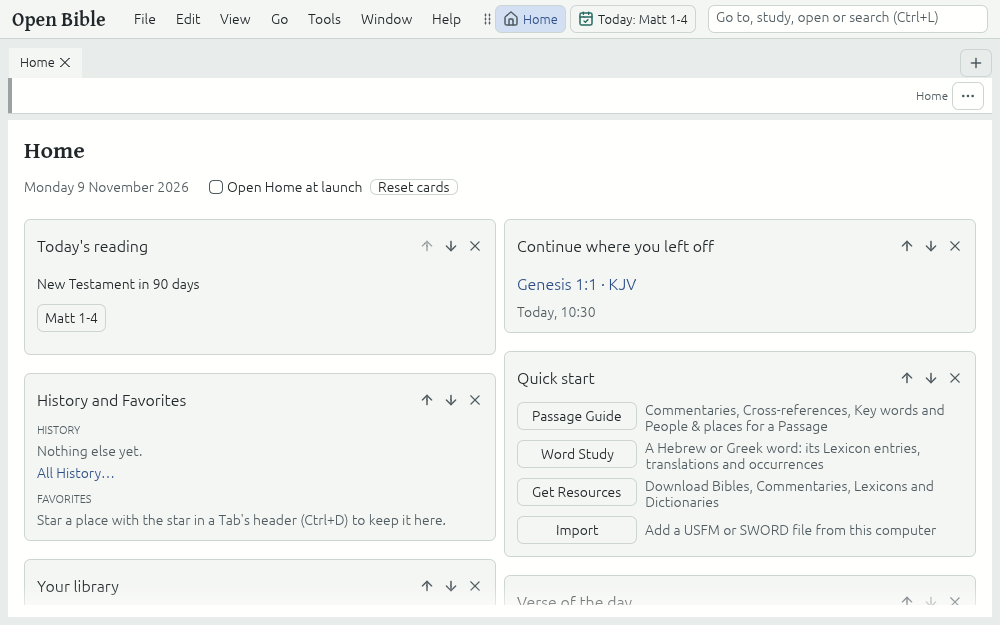
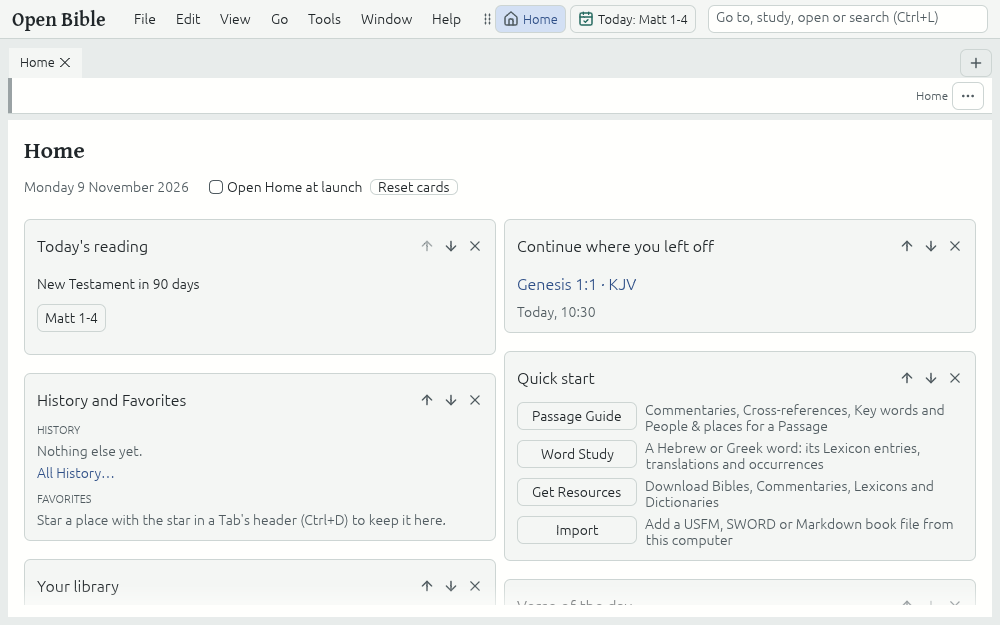
test(gallery): re-bless the front page's Home after the Quick start names Markdown books (#344)
Master's front-page gallery (#348) drew Home's Quick start before this
branch named Markdown books in its Import help; its goldens now show the
new text. The Copy verses step of copying_across_a_marker_copies_clean_text
clicks again until the window has made its text, as a slow CI machine had
not by the first click (#352's ubuntu run).

Verification: cargo xtask gallery --bless (only front-page-home-and-a-
reading-plan-* changed); cargo xtask ci (all gates passed)

Changed region(s): [[0.527, 0.8208, 0.961, 0.9728]]

diff --git a/crates/ui-egui/src/footnotes_tests.rs b/crates/ui-egui/src/footnotes_tests.rs
@@ -1381,7 +1381,16 @@ fn copying_across_a_marker_copies_clean_text() {
         &json!({ "passages": "Jn 1:14", "bibles": "bsb" }),
     );
     h.frames(3);
-    h.click_text("Copy plain text");
+    // The window's Copy buttons are enabled once its text is made, which a slow machine may
+    // not have done by the first click (#352's CI): click again until it copies.
+    let before = h.copied.len();
+    for _ in 0..20 {
+        h.click_text("Copy plain text");
+        if h.copied.len() > before {
+            break;
+        }
+        h.frames(2);
+    }
     let copied = h.copied.last().cloned().unwrap_or_default();
     assert!(copied.contains("full of grace and truth."), "{copied:?}");
     for note in ["tabernacled", "Only Begotten", "Unique One"] {
